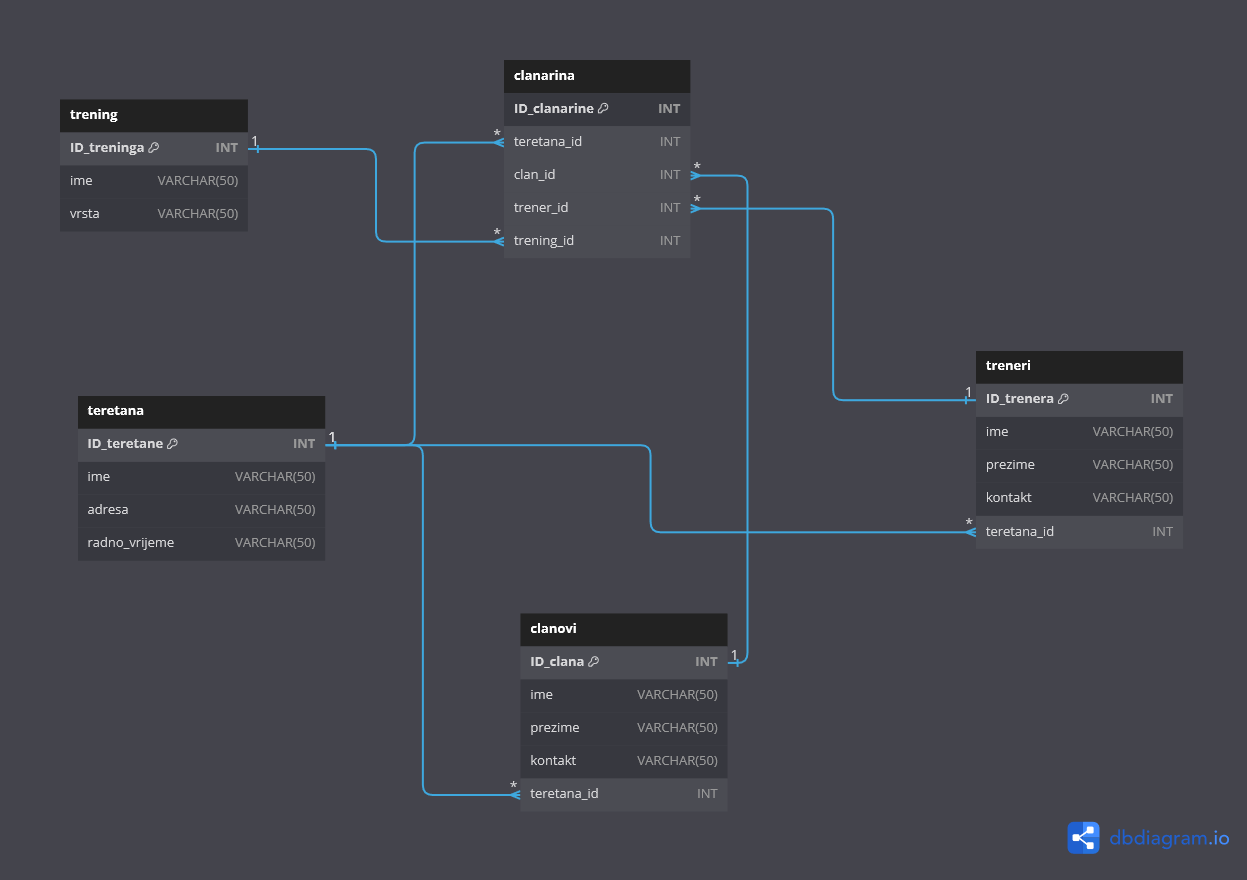
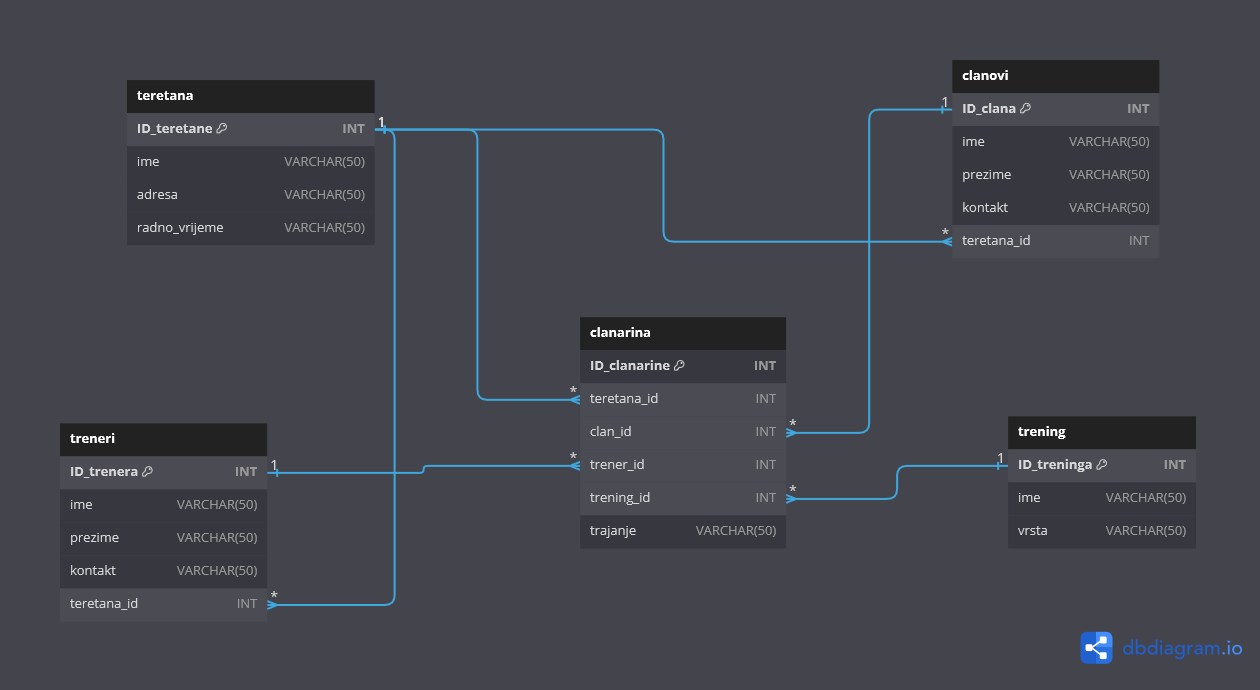
update README.md

diff --git a/templates/gym.html b/templates/gym.html
@@ -199,15 +199,15 @@
                 clanarina.ID_trenera %} {{ trener.ime }} {% endif %} {% endfor
                 %}
               </td>
-              >
+              
               <td>
                 {% for trening in treninzi %} {% if trening.ID_trening ==
                 clanarina.ID_trening %} {{ trening.vrsta }} {% endif %} {%
                 endfor %}
               </td>
-              >
+              
               <td>{{clanarina.trajanje}}</td>
-              >
+              
               <td scope="row">
                 <form
                   action="{{ url_for('izbrisi_clanarinu', ID_Clanarina=clanarina.ID_Clanarina) }}"

diff --git a/model/clanarina.py b/model/clanarina.py
@@ -6,9 +6,9 @@ from sqlalchemy import *
 class Clanarina (Base):
     __tablename__ = "clanarina"
     ID_Clanarina = Column(Integer, primary_key = True)
-    ID_clana = Column(Integer, ForeignKey('clanovi.ID_clana'))
-    ID_trenera = Column(Integer, ForeignKey('treneri.ID_trenera'))
-    ID_trening = Column(Integer, ForeignKey('trening.ID_trening'))
+    ID_clana = Column(Integer, ForeignKey('clanovi.ID_clana', ondelete="CASCADE"))
+    ID_trenera = Column(Integer, ForeignKey('treneri.ID_trenera', ondelete="CASCADE"))
+    ID_trening = Column(Integer, ForeignKey('trening.ID_trening', ondelete="CASCADE"))
     trajanje = Column(String(50));
 
    

diff --git a/model/__init__.py b/model/__init__.py
@@ -1,8 +1,10 @@
 from sqlalchemy import create_engine
 from sqlalchemy.orm import declarative_base, sessionmaker
 
-engine = create_engine("mysql+pymysql://root@localhost:3306/gym")
+""" engine = create_engine("mysql+pymysql://root@localhost:3306/gym") """
 
+
+engine = create_engine("mysql+pymysql://gym:gym123@mysql:3306/gym") 
 
 session = sessionmaker(bind=engine)
 

diff --git a/__main__.py b/__main__.py
@@ -1,0 +1,12 @@
+from model import *
+from model.relacije import *
+from model.cache import region, api
+
+
+ID = 2
+KEY = f'id_food{ID}'
+pero = region.get(KEY)
+print(pero)
+if pero is api.NO_VALUE:
+    pero = session.query(Clanarina).filter(Clanarina.ID_food==ID).one()
+    region.set(KEY, pero)

diff --git a/model/cache/__init__.py b/model/cache/__init__.py
@@ -1,0 +1,12 @@
+from dogpile.cache import make_region, api
+
+region = make_region().configure(
+    "dogpile.cache.redis",
+    expiration_time=3600,
+    arguments = {
+        "host": "redis",
+        "port": 6379,
+        "db": 1,
+        "redis_expiration_time": 3600 
+    }
+)
